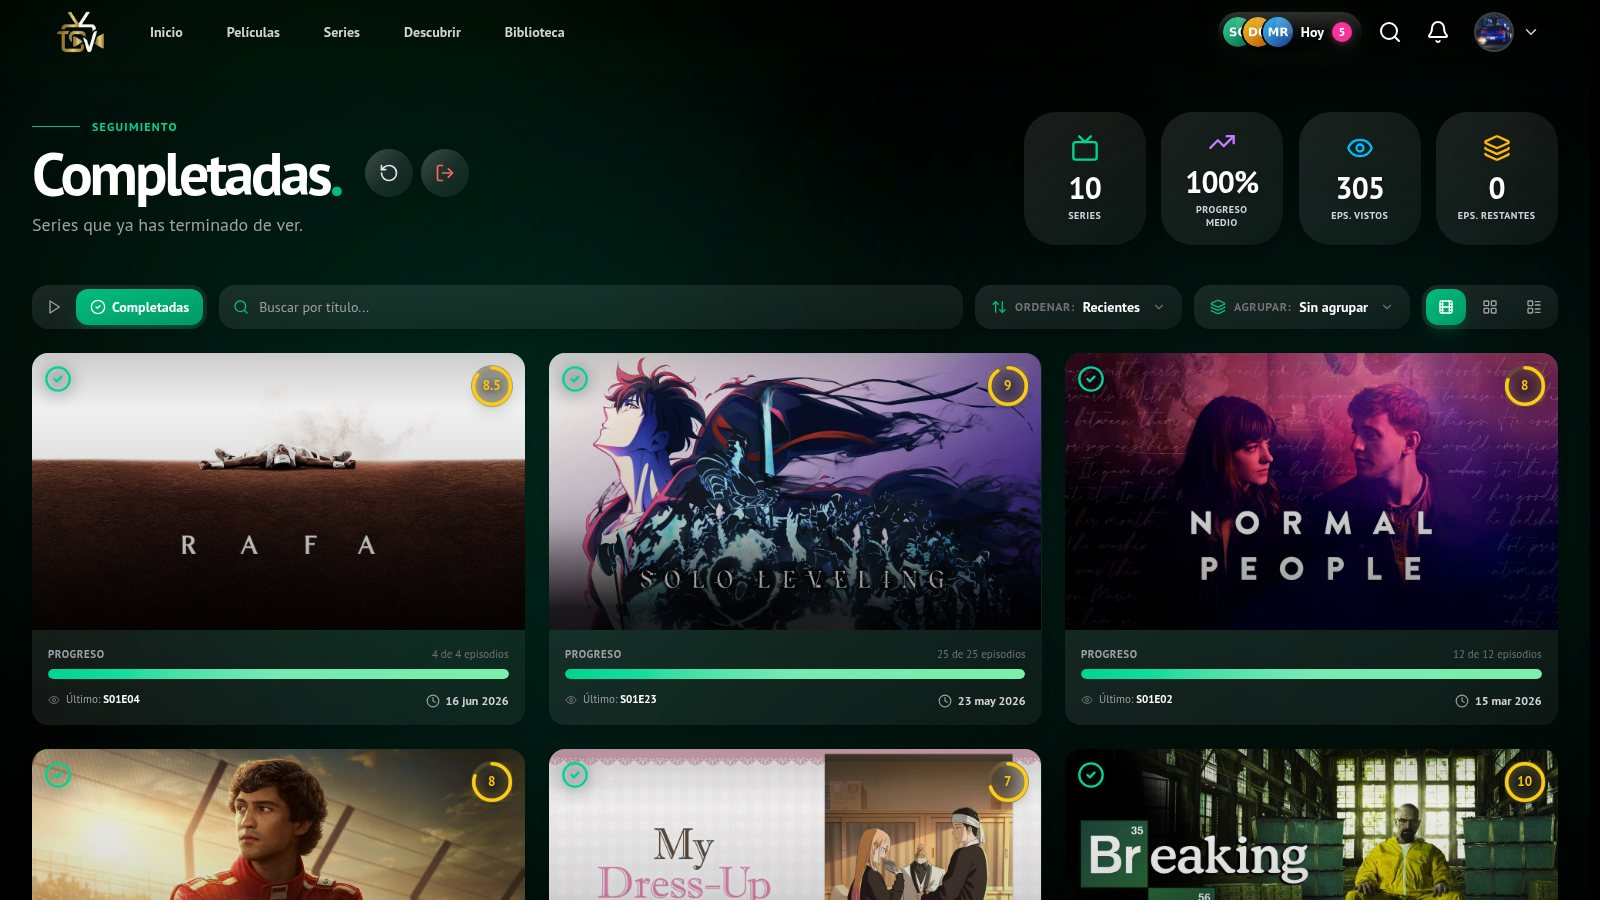
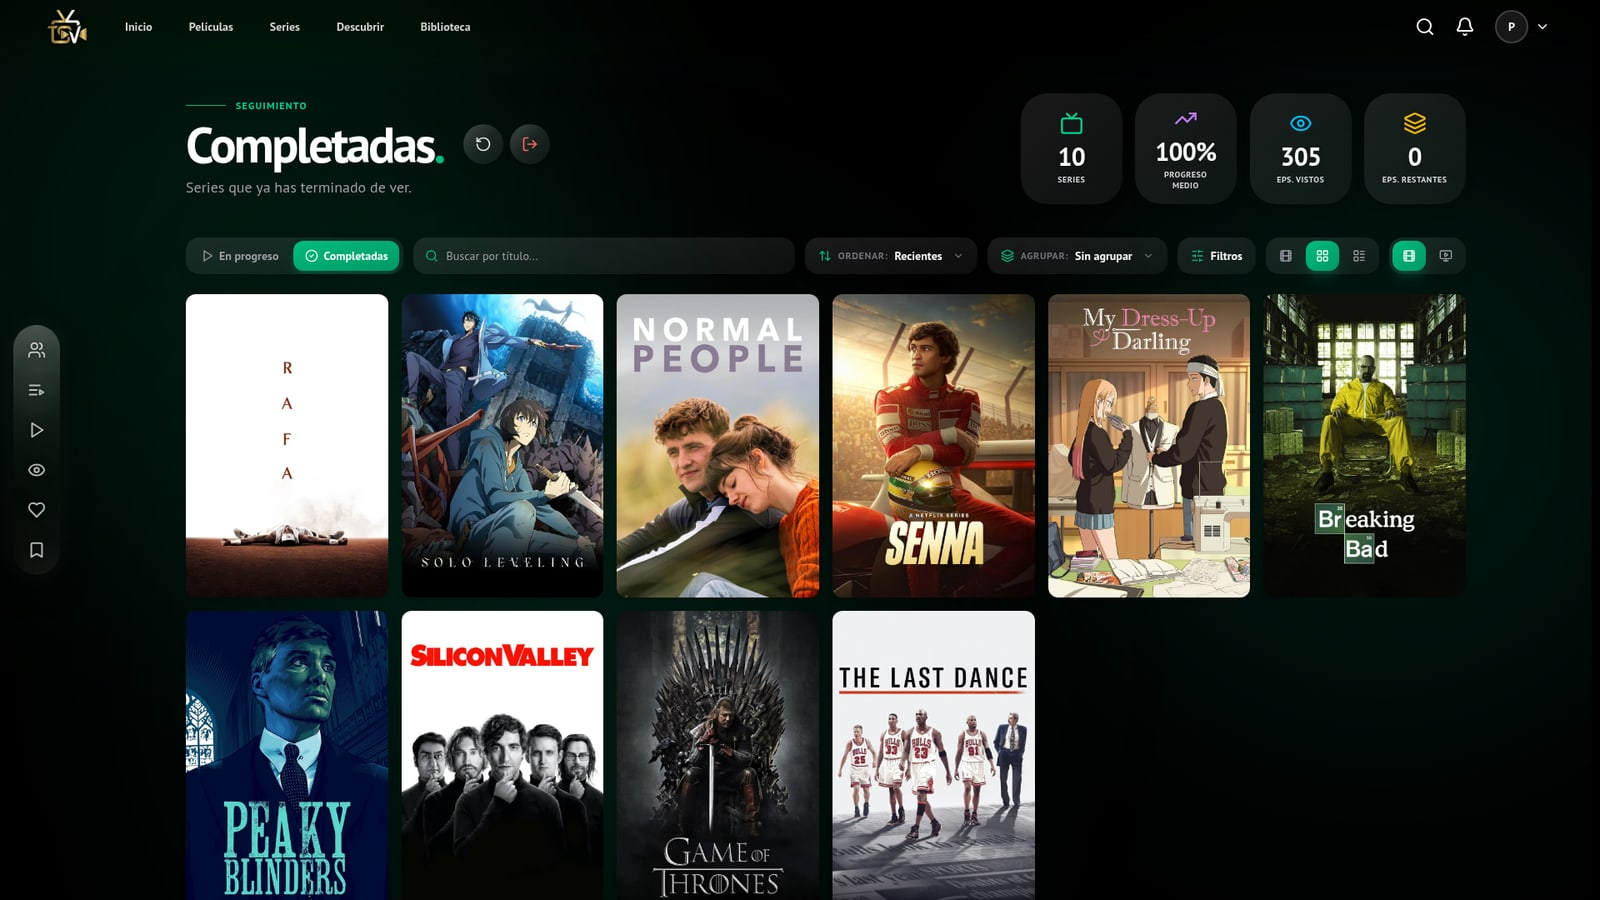
README: tour visual rehecho con capturas reales con sesión iniciada y script para regenerarlas
Fichas de película y serie en ordenador y móvil, cada botón de acción con
su modal, temporada, episodio, páginas personales y panel lateral. Las
capturas se generan con scripts/capture-readme-screenshots.mjs (sesión local
en contexto Playwright aislado, sin escribir en la cuenta). Fuera las
imágenes antiguas que ya no se usaban.

diff --git a/README.md b/README.md
@@ -67,7 +67,7 @@ En plena era del streaming lo que ves está repartido entre Netflix, Max, Disney
 
 ## 🎬 Tour visual
 
-> Capturas reales de la app con una cuenta con sesión iniciada.
+> Capturas reales de la app con mi cuenta y la sesión iniciada: mis notas, favoritos, listas y la vista que tengo elegida en cada página. Se regeneran con [`scripts/capture-readme-screenshots.mjs`](scripts/capture-readme-screenshots.mjs).
 
 ### 🏠 Inicio
 
@@ -80,27 +80,27 @@ Un hero a pantalla completa con tráiler, logo del título y acciones rápidas, 
 
 ### 🎞 Fichas de películas y series
 
-Todo sobre un título en una sola página: marcador de puntuaciones (TMDb, Trakt, IMDb, Rotten Tomatoes, Metacritic…), tu estado (visto, nota, favorito, pendiente), reparto, temporadas, recomendaciones, premios, galería de arte, opiniones de la comunidad y listas que lo incluyen.
+Todo sobre un título en una sola página: portada y fondo elegidos por ti, premios, plataformas donde verlo (con Plex), la fila de **botones de acción**, el **marcador** de puntuaciones (TMDb, Trakt, IMDb, Rotten Tomatoes, Letterboxd…) con las estadísticas de la comunidad, y debajo un menú de secciones fijo: reparto, temporadas, recomendaciones, premios, media, sentimientos, comentarios y listas que lo incluyen.
 
 <table>
 <tr>
 <td width="50%">
-<img src="docs/assets/readme/movie.jpg" alt="Ficha de película">
-<p align="center"><sub><b>Ficha de película</b> con marcador y acciones</sub></p>
+<img src="docs/assets/readme/details-movie.jpg" alt="Ficha de la película Origen en escritorio">
+<p align="center"><sub><b>Película</b>: tu nota, visto y favorito ya marcados en los botones</sub></p>
 </td>
 <td width="50%">
-<img src="docs/assets/readme/tv.jpg" alt="Ficha de serie">
-<p align="center"><sub><b>Ficha de serie</b> con tu nota, visto y favorito</sub></p>
+<img src="docs/assets/readme/details-tv.jpg" alt="Ficha de la serie Breaking Bad en escritorio">
+<p align="center"><sub><b>Serie</b>: progreso de episodios vistos en el botón de Trakt</sub></p>
 </td>
 </tr>
 <tr>
 <td width="50%">
-<img src="docs/assets/readme/movie-scroll.jpg" alt="Reparto y recomendaciones">
-<p align="center"><sub><b>Reparto y recomendaciones</b> con menú de secciones fijo</sub></p>
+<img src="docs/assets/readme/details-movie-scroll.jpg" alt="Ficha de película al desplazar, con el menú de secciones">
+<p align="center"><sub><b>Al desplazar</b>: menú de secciones fijo y flechas al título anterior y siguiente</sub></p>
 </td>
 <td width="50%">
-<img src="docs/assets/readme/tv-scroll.jpg" alt="Temporadas y reparto principal">
-<p align="center"><sub><b>Temporadas y reparto principal</b></sub></p>
+<img src="docs/assets/readme/details-tv-scroll.jpg" alt="Ficha de serie al desplazar, con temporadas">
+<p align="center"><sub><b>Temporadas y reparto</b> de la serie</sub></p>
 </td>
 </tr>
 </table>
@@ -108,9 +108,107 @@ Todo sobre un título en una sola página: marcador de puntuaciones (TMDb, Trakt
 <img src="docs/assets/readme/movie-scroll2.jpg" alt="Colección, premios y galería de portadas" width="100%">
 <p align="center"><sub><b>Colección, premios y galería de arte</b>: elige portada, fondo y logo por idioma</sub></p>
 
+#### En el móvil
+
+La ficha móvil no es la de escritorio encogida: cabecera inmersiva con el póster a pantalla completa y el logo del título, botones de acción en una fila, marcador compacto con las notas que elijas en Ajustes y barra inferior con tus páginas.
+
+<img src="docs/assets/readme/mobile-details.jpg" alt="Fichas de Origen, Breaking Bad e Interstellar en el móvil, y la ficha desplazada" width="100%">
+<p align="center"><sub><b>Origen</b>, <b>Breaking Bad</b>, <b>Interstellar</b> y la ficha de Origen al desplazar</sub></p>
+
+### 🎛 Botones de acción y sus modales
+
+Cada botón de la ficha abre su propio modal de cristal, que nace del botón y vuelve a él al cerrarse. Favorito y pendiente se marcan con un toque, sin modal.
+
+| Botón | Qué hace |
+| --- | --- |
+| ▶ **Tráiler** | Reproduce el tráiler oficial (o eliges otro vídeo del título) |
+| 🎵 **Banda sonora** | Escucha la banda sonora, con reproducción automática opcional y 👍 / 👎 por canción |
+| 👁 **Vistos (Trakt)** | Historial de visionados; en series, el progreso por temporada y episodio |
+| ⭐ **Puntuación** | Tu nota de 1 a 10 y el reparto de votos de la comunidad |
+| ❤ / 🔖 **Favorito y pendiente** | Añadir o quitar con un toque |
+| 📃 **Listas** | Añade el título a tus listas o crea una nueva |
+| 💬 **Reseñas** | Reseñas de la comunidad y la tuya |
+| 👥 **Actividad** | Qué han hecho con el título las personas que sigues |
+| 🔗 **Enlaces** | TMDb, Trakt, IMDb, Rotten Tomatoes, Letterboxd, JustWatch, Wikipedia… |
+| 📤 **Compartir** | Tarjeta del título lista para compartir, como imagen o vídeo |
+
+<table>
+<tr>
+<td width="33%">
+<img src="docs/assets/readme/action-trailer.jpg" alt="Modal del tráiler">
+<p align="center"><sub><b>Tráiler</b></sub></p>
+</td>
+<td width="33%">
+<img src="docs/assets/readme/action-soundtrack.jpg" alt="Modal de la banda sonora">
+<p align="center"><sub><b>Banda sonora</b></sub></p>
+</td>
+<td width="33%">
+<img src="docs/assets/readme/action-rating.jpg" alt="Modal de puntuación">
+<p align="center"><sub><b>Puntuación</b></sub></p>
+</td>
+</tr>
+<tr>
+<td width="33%">
+<img src="docs/assets/readme/action-trakt.jpg" alt="Modal de visionados de Trakt en una película">
+<p align="center"><sub><b>Vistos</b> en una película</sub></p>
+</td>
+<td width="33%">
+<img src="docs/assets/readme/action-trakt-tv.jpg" alt="Modal de episodios vistos de una serie">
+<p align="center"><sub><b>Vistos</b> en una serie, por episodio</sub></p>
+</td>
+<td width="33%">
+<img src="docs/assets/readme/action-lists.jpg" alt="Modal de listas">
+<p align="center"><sub><b>Listas</b></sub></p>
+</td>
+</tr>
+<tr>
+<td width="33%">
+<img src="docs/assets/readme/action-reviews.jpg" alt="Modal de reseñas">
+<p align="center"><sub><b>Reseñas</b></sub></p>
+</td>
+<td width="33%">
+<img src="docs/assets/readme/action-activity.jpg" alt="Modal de actividad de quienes sigues">
+<p align="center"><sub><b>Actividad</b> de quienes sigues</sub></p>
+</td>
+<td width="33%">
+<img src="docs/assets/readme/action-links.jpg" alt="Modal de enlaces externos">
+<p align="center"><sub><b>Enlaces</b> externos</sub></p>
+</td>
+</tr>
+<tr>
+<td width="33%" colspan="3" align="center">
+<img src="docs/assets/readme/action-share.jpg" alt="Modal de compartir" width="66%">
+<p align="center"><sub><b>Compartir</b></sub></p>
+</td>
+</tr>
+</table>
+
+### 📺 Temporadas y episodios
+
+Cada temporada y cada episodio tiene su propia ficha, con el mismo diseño que la de la serie: nota y visto por episodio, reparto e invitados, imágenes y paso al anterior o siguiente con flechas (o deslizando en el móvil).
+
+<table>
+<tr>
+<td width="50%">
+<img src="docs/assets/readme/season.jpg" alt="Ficha de la temporada 5 de Breaking Bad">
+<p align="center"><sub><b>Temporada</b>: episodios con nota y visto</sub></p>
+</td>
+<td width="50%">
+<img src="docs/assets/readme/episode.jpg" alt="Ficha del episodio Ozymandias de Breaking Bad">
+<p align="center"><sub><b>Episodio</b>: puntuaciones, reparto invitado y fotogramas</sub></p>
+</td>
+</tr>
+</table>
+
+<p align="center">
+<img src="docs/assets/readme/mobile-season-episode.jpg" alt="Temporada y episodio en el móvil" width="60%">
+<br>
+<sub><b>En el móvil</b>: la temporada con su póster y el episodio con dos fotogramas apilados</sub>
+</p>
+
 ### 📚 Tu biblioteca
 
-Cada página personal con su vista predeterminada, buscador, filtros, orden, agrupación y contadores.
+Cada página personal con la vista que tengas elegida, buscador, filtros, orden, agrupación y contadores.
 
 <table>
 <tr>
@@ -153,17 +251,20 @@ Cada página personal con su vista predeterminada, buscador, filtros, orden, agr
 
 ### 📲 Ficha rápida lateral en vista teléfono
 
-Desde cualquier página personal, pulsar un título abre su ficha en un **panel lateral acoplado** sin salir de la página. En **vista teléfono** el panel reproduce la ficha móvil: portada con logo, botones, marcador y todas las secciones al desplazar. Se puede pasar de un título a otro sin cerrarlo.
+Desde cualquier página personal, pulsar un título abre su ficha en un **panel lateral acoplado** sin salir de la página: la cuadrícula se recoloca a su lado. En **vista teléfono** el panel reproduce la ficha móvil (portada con logo, botones, marcador y todas las secciones al desplazar) y se puede pasar de un título a otro sin cerrarlo. Cómo se abren las fichas (panel centrado o lateral, superpuesto o acoplado, vista de escritorio o de teléfono, o página completa) se elige en Ajustes.
+
+<img src="docs/assets/readme/drawer-favorites.jpg" alt="Favoritos con la ficha de Origen abierta en el panel lateral" width="100%">
+<p align="center"><sub><b>Abierto desde Favoritos</b></sub></p>
 
 <table>
 <tr>
 <td width="50%">
-<img src="docs/assets/readme/drawer-watch.jpg" alt="Panel lateral en vista teléfono desde Pendientes">
+<img src="docs/assets/readme/drawer-watchlist.jpg" alt="Pendientes con la ficha de Breaking Bad en el panel lateral">
 <p align="center"><sub><b>Abierto desde Pendientes</b></sub></p>
 </td>
 <td width="50%">
-<img src="docs/assets/readme/drawer-fav-scroll.jpg" alt="Panel lateral desplazado con marcador y detalles">
-<p align="center"><sub><b>Al desplazar</b>: marcador, estadísticas y detalles</sub></p>
+<img src="docs/assets/readme/drawer-watchlist-scroll.jpg" alt="Panel lateral desplazado con marcador y detalles">
+<p align="center"><sub><b>Al desplazar</b>: marcador, estadísticas y secciones</sub></p>
 </td>
 </tr>
 </table>
@@ -498,6 +599,20 @@ El backend levanta los contenedores, espera a que estén sanos y aplica las migr
 3. Abre `/api/spotify/login`, autoriza y guarda el `SPOTIFY_REFRESH_TOKEN` que se muestra.
 
 **Google**: autoriza `http://localhost:3000/api/auth/google/callback` ([guía](docs/backend/google_auth_setup.md)).
+
+</details>
+
+<details>
+<summary><b>📸 Regenerar las capturas del README</b></summary>
+<br>
+
+Con la web y la API en marcha y la base local, el script entra con un usuario real de esa base (por defecto `pablosantos`, cámbialo con `README_USERNAME`) mediante un token firmado en un navegador aislado: no toca la sesión de tu navegador ni escribe nada en la cuenta. Falla si la sesión no está iniciada.
+
+```bash
+PLAYWRIGHT_MODULE=/ruta/a/playwright-core/index.mjs CHROME_PATH=/usr/bin/google-chrome node scripts/capture-readme-screenshots.mjs
+```
+
+Pasa nombres de captura (`details-movie action-share …`) para rehacer solo esas, y `README_STORAGE=vistas.json` para fijar la vista de cada página (las claves `showverse:*` de `localStorage`).
 
 </details>
 

diff --git a/CHANGELOG.md b/CHANGELOG.md
@@ -8,6 +8,7 @@ Las entradas anteriores a julio de 2026 no están aquí: el estado de esa fecha 
 
 ## Sin publicar
 
+- README: tour visual rehecho con capturas nuevas tomadas con la cuenta de Pablo y la sesión iniciada: fichas de película y serie en ordenador y en móvil, cada botón de acción con su modal (tráiler, banda sonora, vistos, puntuación, listas, reseñas, actividad, enlaces y compartir), fichas de temporada y de episodio, las páginas personales con su vista actual y el panel lateral abierto desde Favoritos y Pendientes. Las capturas se regeneran con `scripts/capture-readme-screenshots.mjs`. → [README](README.md)
 - Modal «Valoración de episodios»: sin barras de desplazamiento, ni la vertical del modal ni la horizontal de la tabla, en ordenador y en móvil; se sigue pudiendo desplazar igual. → [componentes](docs/frontend/components.md)
 - Marcador de puntuaciones en el móvil (ficha y modal lateral en vista teléfono): la puntuación de Letterboxd (o la primera del marcador) ya sale en su sitio desde el principio, sin desplazarse cuando llegan las demás notas, y la llegada de la nota de Rotten Tomatoes ya no recoloca las demás unos píxeles. → [componentes](docs/frontend/components.md)
 - Fichas y modal de detalles: las notas de Rotten Tomatoes y Letterboxd (y Metacritic) salen bastante antes, sobre todo en el móvil. La ficha pide las notas desde el propio HTML, sin esperar a que cargue la página (en móvil, unos 0,9 s antes; RT y Letterboxd llegaban a unos 4,5 s y ahora a unos 3 s en frío). Al tocar un enlace a una ficha, o al dejar el ratón encima, la petición empieza ya mientras se navega. Cada fuente llega por separado: RT y Letterboxd ya no esperan a Metacritic, la más lenta, que a veces tardaba hasta 8 s. Los enlaces de Wikidata se consultan una sola vez por título y se guardan una semana, y las notas se cachean en el navegador y en la CDN. → [componentes](docs/frontend/components.md), [API](docs/backend/backend_functionality_coverage.md)

diff --git a/README.en.md b/README.en.md
@@ -49,7 +49,7 @@ The interface is in Spanish today; the code, the architecture and these contribu
 
 <table>
 <tr>
-<td width="50%"><img src="docs/assets/readme/movie.jpg" alt="Movie page"><p align="center"><sub><b>Movie page</b> with ratings from 8+ sources</sub></p></td>
+<td width="50%"><img src="docs/assets/readme/details-movie.jpg" alt="Movie page"><p align="center"><sub><b>Movie page</b> with ratings from 8+ sources</sub></p></td>
 <td width="50%"><img src="docs/assets/readme/profile.jpg" alt="Public profile"><p align="center"><sub><b>Public profile</b> with levels and activity</sub></p></td>
 </tr>
 </table>
